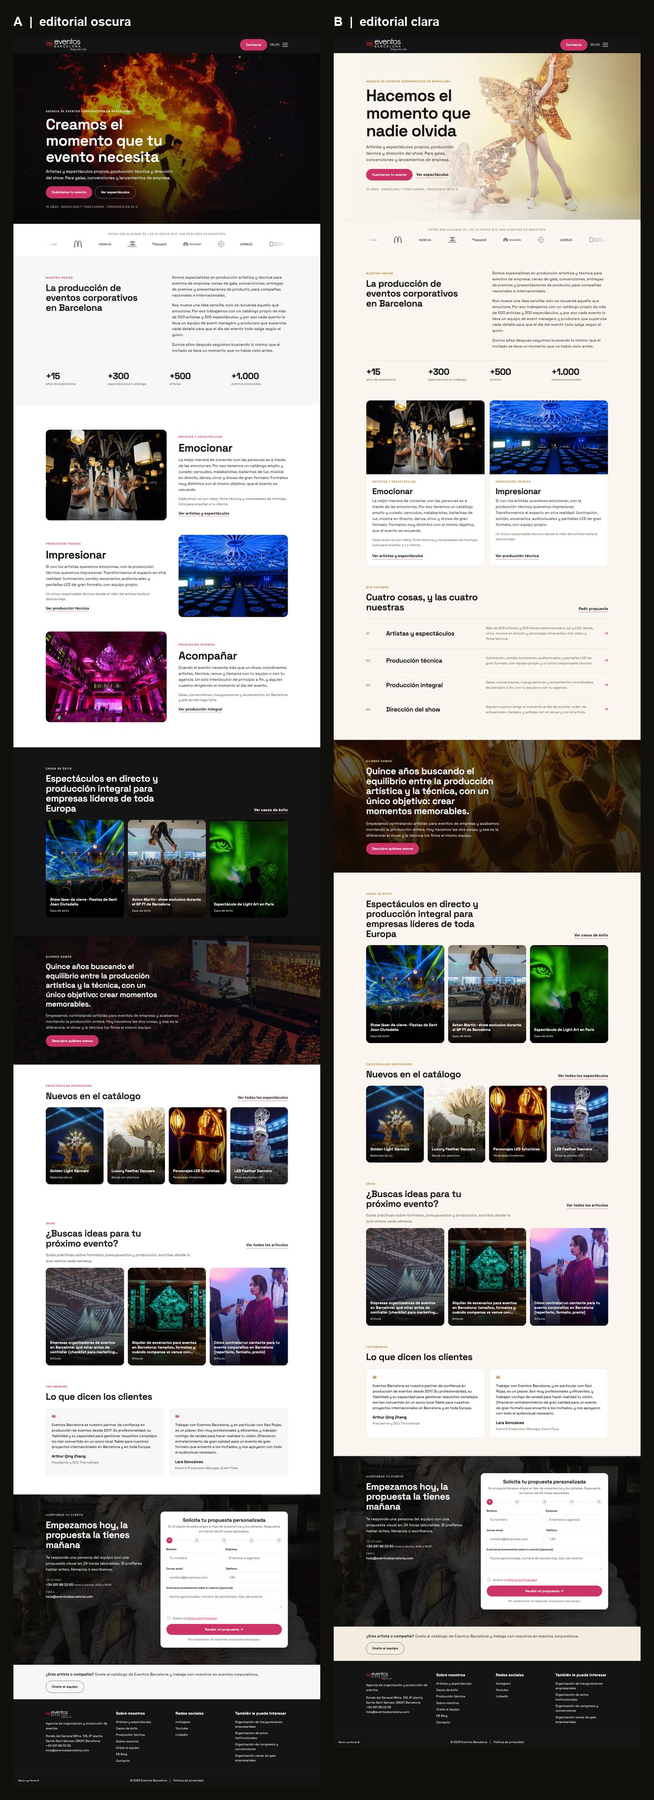
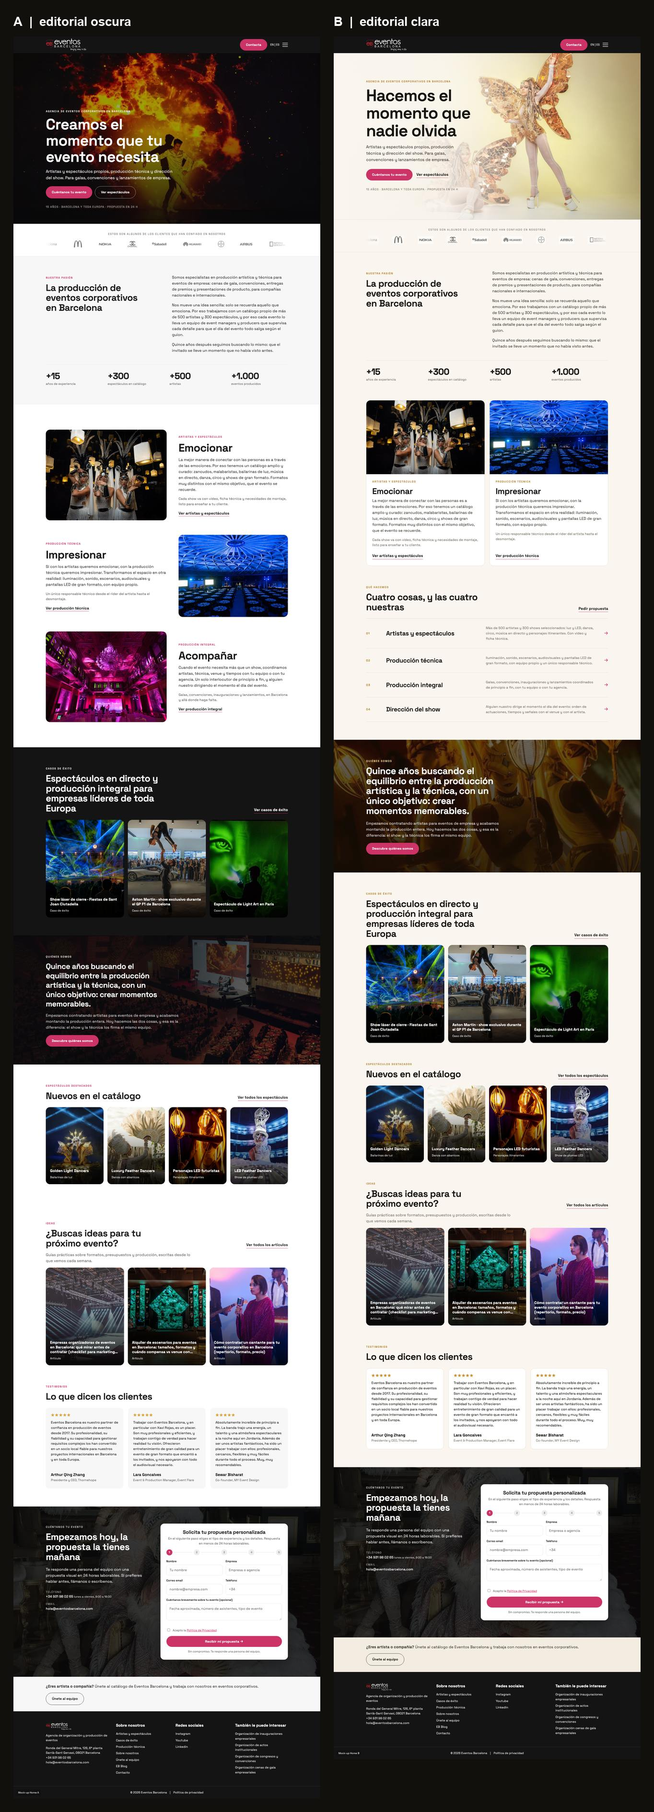
Home: tercer testimonio (MY Event Design) y bloque en formato reseña
- Nuevo testimonio de Sewar Bisharat, Co-founder de MY Event Design (Jordania),
  traducido al español y con el original en inglés para la versión EN.
- El bloque de testimonios pasa a formato reseña: cinco estrellas arriba de cada
  tarjeta, tres columnas en escritorio, dos en tablet y una en móvil, con el
  nombre y el cargo alineados abajo en las tres.
- Sin marcado Review/AggregateRating: Google ignora las reseñas que una marca
  publica sobre sí misma en su propia web, así que las estrellas son visuales.

diff --git a/OUTPUTS/eventos-barcelona/home-opcion-b.html b/OUTPUTS/eventos-barcelona/home-opcion-b.html
@@ -4,7 +4,7 @@
 <meta property="og:image" content="https://propuestas.eventosbarcelona.com/og-eventos-barcelona.jpg"><meta property="og:image:width" content="1200"><meta property="og:image:height" content="630"><meta property="og:url" content="https://propuestas.eventosbarcelona.com/home-opciones/b">
 <meta name="twitter:card" content="summary_large_image"><meta name="twitter:title" content="Home, opción B, Eventos Barcelona"><meta name="twitter:description" content="Mock-up de la nueva home, versión editorial clara en crema y dorado."><meta name="twitter:image" content="https://propuestas.eventosbarcelona.com/og-eventos-barcelona.jpg">
 <meta name="robots" content="noindex,nofollow"><link rel="preconnect" href="https://fonts.googleapis.com"><link rel="preconnect" href="https://fonts.gstatic.com" crossorigin>
-<link rel="stylesheet" href="https://fonts.googleapis.com/css2?family=Space+Grotesk:wght@300;400;500;600;700&display=swap"><style>:root{--pink:#cc3366;--pink-dark:#a82854;--gold:#b8873b;--ink:#17150f;--body:#403b33;--muted:#7d766b;--line:#e2d9c9;--bg:#faf6ef;--bg-2:#f3ece1;--dark:#141414;--font:"Space Grotesk",system-ui,-apple-system,"Segoe UI",Roboto,sans-serif;color-scheme:light}
+<link rel="stylesheet" href="https://fonts.googleapis.com/css2?family=Space+Grotesk:wght@300;400;500;600;700&display=swap"><style>:root{--pink:#cc3366;--pink-dark:#a82854;--gold:#b8873b;--ink:#17150f;--body:#403b33;--muted:#7d766b;--line:#e2d9c9;--bg:#faf6ef;--bg-2:#f3ece1;--dark:#141414;--star:#c9922f;--font:"Space Grotesk",system-ui,-apple-system,"Segoe UI",Roboto,sans-serif;color-scheme:light}
 body{background:var(--bg);color:var(--body)}h1,h2,h3{color:var(--ink)}.eyebrow{color:var(--gold)}.link{color:var(--ink)}
 .hero{position:relative;min-height:min(88vh,780px);display:flex;align-items:center;background:var(--bg) center right/cover no-repeat}
 .hero::before{content:"";position:absolute;inset:0;background:linear-gradient(90deg,var(--bg) 0%,rgba(250,246,239,.93) 36%,rgba(250,246,239,.18) 68%,rgba(250,246,239,0) 100%)}
@@ -30,7 +30,7 @@ body{background:var(--bg);color:var(--body)}h1,h2,h3{color:var(--ink)}.eyebrow{c
 .duo .b{padding:26px 28px 30px;display:flex;flex-direction:column;flex:1}.duo h2{font-size:clamp(1.8rem,3vw,2.4rem);margin-bottom:10px}
 .duo .small{font-size:.98rem;color:var(--muted)}.duo .link{margin-top:auto;align-self:flex-start;padding-top:8px}
 @media(max-width:820px){.duo{grid-template-columns:minmax(0,1fr)}}
-.quote{background:#fff;border:1px solid var(--line);border-radius:18px;padding:30px}.quote .q{color:var(--gold)}
+.quote{background:#fff;border:1px solid var(--line);border-radius:18px;padding:26px 24px 28px}
 .artist{background:var(--bg-2);border-top:1px solid var(--line)}
 
 *{box-sizing:border-box}html{-webkit-text-size-adjust:100%;scroll-behavior:smooth}
@@ -85,10 +85,13 @@ section.s{padding-block:84px}@media(max-width:820px){section.s{padding-block:50p
 @media(max-width:820px){.cards,.cards.four{grid-template-columns:repeat(2,minmax(0,1fr))}}
 @media(max-width:480px){.cards{grid-template-columns:minmax(0,1fr)}.cards.four .card{aspect-ratio:4/5}}
 .after{display:flex;justify-content:center;margin-top:28px}
-/* quotes */
-.quotes{display:grid;grid-template-columns:repeat(2,minmax(0,1fr));gap:22px}
-.quote .q{font-size:2.4rem;line-height:1;font-weight:700}.quote p{font-size:1.04rem;color:var(--ink)}.quote b{display:block;color:var(--ink)}.quote span{color:var(--muted);font-size:.95rem}
-@media(max-width:820px){.quotes{grid-template-columns:minmax(0,1fr)}}
+/* quotes, en formato reseña */
+.quotes{display:grid;grid-template-columns:repeat(3,minmax(0,1fr));gap:22px}
+.quote{display:flex;flex-direction:column}
+.stars{color:var(--star);font-size:1.02rem;letter-spacing:.16em;line-height:1;margin-bottom:14px}
+.quote p{font-size:1rem;color:var(--ink);flex:1}.quote b{display:block;color:var(--ink);margin-top:4px}.quote span{color:var(--muted);font-size:.92rem}
+@media(max-width:980px){.quotes{grid-template-columns:repeat(2,minmax(0,1fr))}}
+@media(max-width:700px){.quotes{grid-template-columns:minmax(0,1fr)}}
 /* form */
 .formsec{position:relative;color:#fff;background:#141414 center/cover no-repeat}.formsec::before{content:"";position:absolute;inset:0;background:rgba(8,8,10,.82)}
 .formsec .wrap{position:relative;display:grid;grid-template-columns:minmax(0,.9fr) minmax(0,1.1fr);gap:48px;align-items:start;padding-block:80px}
@@ -126,7 +129,7 @@ section.s{padding-block:84px}@media(max-width:820px){section.s{padding-block:50p
   <div class="d"><img src="https://www.eventosbarcelona.com/wp-content/uploads/2025/12/foto-banner-home.webp" alt="Bailarinas con tocados de plumas en un evento corporativo" loading="lazy"><div class="b"><span class="eyebrow">Artistas y espectáculos</span><h2>Emocionar</h2><p>La mejor manera de conectar con las personas es a través de las emociones. Por eso tenemos un catálogo amplio y curado: zancudos, malabaristas, bailarinas de luz, música en directo, danza, circo y shows de gran formato. Formatos muy distintos con el mismo objetivo, que el evento se recuerde.</p><p class="small">Cada show va con vídeo, ficha técnica y necesidades de montaje, listo para enseñar a tu cliente.</p><a class="link" href="https://www.eventosbarcelona.com/artistas-y-espectaculos/">Ver artistas y espectáculos</a></div></div>
   <div class="d"><img src="https://www.eventosbarcelona.com/wp-content/uploads/2025/12/header.webp" alt="Sala de gala con iluminación azul y pantallas" loading="lazy"><div class="b"><span class="eyebrow">Producción técnica</span><h2>Impresionar</h2><p>Si con los artistas queremos emocionar, con la producción técnica queremos impresionar. Transformamos el espacio en otra realidad: iluminación, sonido, escenarios, audiovisuales y pantallas LED de gran formato, con equipo propio.</p><p class="small">Un único responsable técnico desde el rider del artista hasta el desmontaje.</p><a class="link" href="https://www.eventosbarcelona.com/produccion-tecnica-para-eventos/">Ver producción técnica</a></div></div>
 </div></div></section><section class="s" style="padding-top:0"><div class="wrap"><div class="s-head"><div><span class="eyebrow">Qué hacemos</span><h2>Cuatro cosas, y las cuatro nuestras</h2></div><a class="link" href="#contacto">Pedir propuesta</a></div><div class="idx"><a href="https://www.eventosbarcelona.com/artistas-y-espectaculos/"><span class="n">01</span><h3>Artistas y espectáculos</h3><p>Más de 500 artistas y 300 shows seleccionados: luz y LED, danza, circo, música en directo y personajes itinerantes. Con vídeo y ficha técnica.</p><span class="go">&rarr;</span></a><a href="https://www.eventosbarcelona.com/produccion-tecnica-para-eventos/"><span class="n">02</span><h3>Producción técnica</h3><p>Iluminación, sonido, escenarios, audiovisuales y pantallas LED de gran formato, con equipo propio y un único responsable técnico.</p><span class="go">&rarr;</span></a><a href="https://www.eventosbarcelona.com/organizacion-eventos-corporativos-barcelona/"><span class="n">03</span><h3>Producción integral</h3><p>Galas, convenciones, inauguraciones y lanzamientos coordinados de principio a fin, con tu equipo o con tu agencia.</p><span class="go">&rarr;</span></a><a href="https://www.eventosbarcelona.com/casos-exito/"><span class="n">04</span><h3>Dirección del show</h3><p>Alguien nuestro dirige el momento el día del evento: orden de actuaciones, tiempos y señales con el venue y con el artista.</p><span class="go">&rarr;</span></a></div></div></section><section class="s about" style="background-image:url('https://www.eventosbarcelona.com/wp-content/uploads/2026/09/contacto-paso-produccion-personajes-led-faroles.jpg')"><div class="wrap"><span class="eyebrow">Quiénes somos</span><h2>Quince años buscando el equilibrio entre la producción artística y la técnica, con un único objetivo: crear momentos memorables.</h2><p>Empezamos contratando artistas para eventos de empresa y acabamos montando la producción entera. Hoy hacemos las dos cosas, y esa es la diferencia: el show y la técnica los firma el mismo equipo.</p><div style="margin-top:22px"><a class="btn" href="https://www.eventosbarcelona.com/quienes-somos/">Descubre quiénes somos</a></div></div></section><section class="s"><div class="wrap"><div class="s-head"><div><span class="eyebrow">Casos de éxito</span><h2>Espectáculos en directo y producción integral para empresas líderes de toda Europa</h2></div><a class="link" href="https://www.eventosbarcelona.com/casos-exito/">Ver casos de éxito</a></div><div class="cards"><a class="card" href="https://www.eventosbarcelona.com/casos-de-exito/espectaculo-laser-cierre-fiestas-sant-joan-ciutadella/"><img src="https://www.eventosbarcelona.com/wp-content/uploads/2026/09/laser-show-sant-joan-ciutadella-header-optimized.jpg" alt="Show láser de cierre · Fiestas de Sant Joan Ciutadella" loading="lazy"><div class="t"><b>Show láser de cierre · Fiestas de Sant Joan Ciutadella</b><span>Caso de éxito</span></div></a><a class="card" href="https://www.eventosbarcelona.com/casos-de-exito/aston-martin-concesionario-barcelona-espectaculo-f1/"><img src="https://www.eventosbarcelona.com/wp-content/uploads/2026/09/espectaculo-acrobatas-mano-a-mano-optimized.jpg" alt="Aston Martin · show exclusivo durante el GP F1 de Barcelona" loading="lazy"><div class="t"><b>Aston Martin · show exclusivo durante el GP F1 de Barcelona</b><span>Caso de éxito</span></div></a><a class="card" href="https://www.eventosbarcelona.com/casos-de-exito/espectaculo-de-light-art-en-paris/"><img src="https://www.eventosbarcelona.com/wp-content/uploads/2026/05/lightart.jpg" alt="Espectáculo de Light Art en Paris" loading="lazy"><div class="t"><b>Espectáculo de Light Art en Paris</b><span>Caso de éxito</span></div></a></div></div></section><section class="s" style="padding-top:0"><div class="wrap"><div class="s-head"><div><span class="eyebrow">Espectáculos destacados</span><h2>Nuevos en el catálogo</h2></div><a class="link" href="https://www.eventosbarcelona.com/espectaculos/">Ver todos los espectáculos</a></div><div class="cards four"><a class="card" href="https://www.eventosbarcelona.com/espectaculos/bailarinas-luz-golden-light-dancers/"><img src="https://www.eventosbarcelona.com/wp-content/uploads/2026/09/golden-light-dancers-laser.jpg" alt="Golden Light Dancers" loading="lazy"><div class="t"><b>Golden Light Dancers</b><span>Bailarinas de luz</span></div></a><a class="card" href="https://www.eventosbarcelona.com/danza/bailarinas-plumas-luxury-feather-dancers/"><img src="https://www.eventosbarcelona.com/wp-content/uploads/2026/09/luxury-feather-dancers-abanico.jpg" alt="Luxury Feather Dancers" loading="lazy"><div class="t"><b>Luxury Feather Dancers</b><span>Danza con abanicos</span></div></a><a class="card" href="https://www.eventosbarcelona.com/espectaculos/personajes-led-futuristas/"><img src="https://www.eventosbarcelona.com/wp-content/uploads/2026/09/personaje-led-futurista-baston-luz.jpg" alt="Personajes LED futuristas" loading="lazy"><div class="t"><b>Personajes LED futuristas</b><span>Personajes itinerantes</span></div></a><a class="card" href="https://www.eventosbarcelona.com/espectaculos/bailarinas-plumas-led-feather-dancers/"><img src="https://www.eventosbarcelona.com/wp-content/uploads/2026/09/led-feather-dancer-teatro.jpg" alt="LED Feather Dancers" loading="lazy"><div class="t"><b>LED Feather Dancers</b><span>Show de plumas LED</span></div></a></div></div></section><section class="s" style="padding-top:0"><div class="wrap"><div class="s-head"><div><span class="eyebrow">Ideas</span><h2>¿Buscas ideas para tu próximo evento?</h2></div><a class="link" href="https://www.eventosbarcelona.com/blog/">Ver todos los artículos</a></div>
-  <p style="max-width:44rem;color:var(--muted);margin-top:-14px">Guías prácticas sobre formatos, presupuestos y producción, escritas desde lo que vemos cada semana.</p><div class="cards"><a class="card" href="https://www.eventosbarcelona.com/empresas-organizadoras-eventos-barcelona/"><img src="https://www.eventosbarcelona.com/wp-content/uploads/2026/08/convenciones-internacionales-corporate-barcelona-scaled.jpg" alt="Empresas organizadoras de eventos en Barcelona: qué mirar antes de contratar (checklist para marketing corporativo)" loading="lazy"><div class="t"><b>Empresas organizadoras de eventos en Barcelona: qué mirar antes de contratar (checklist para marketing corporativo)</b><span>Artículo</span></div></a><a class="card" href="https://www.eventosbarcelona.com/alquiler-escenarios-eventos-barcelona-guia/"><img src="https://www.eventosbarcelona.com/wp-content/uploads/2026/08/escenario-led-verde-palmeras-eventos-corporativos-barcelona-scaled.jpg" alt="Alquiler de escenarios para eventos en Barcelona: tamaños, formatos y cuándo compensa vs venue con escenario incluido" loading="lazy"><div class="t"><b>Alquiler de escenarios para eventos en Barcelona: tamaños, formatos y cuándo compensa vs venue con escenario incluido</b><span>Artículo</span></div></a><a class="card" href="https://www.eventosbarcelona.com/contratar-cantante-evento-corporativo-barcelona/"><img src="https://www.eventosbarcelona.com/wp-content/uploads/2026/08/cantante-solista-banda-eventos-corporativos-barcelona-scaled.jpg" alt="Cómo contratar un cantante para tu evento corporativo en Barcelona (repertorio, formato, precio)" loading="lazy"><div class="t"><b>Cómo contratar un cantante para tu evento corporativo en Barcelona (repertorio, formato, precio)</b><span>Artículo</span></div></a></div></div></section><section class="s" style="padding-top:0"><div class="wrap"><div class="s-head"><div><span class="eyebrow">Testimonios</span><h2>Lo que dicen los clientes</h2></div></div><div class="quotes"><div class="quote"><div class="q">&ldquo;</div><p>Eventos Barcelona es nuestro partner de confianza en producción de eventos desde 2017. Su profesionalidad, su fiabilidad y su capacidad para gestionar requisitos complejos los han convertido en un socio local fiable para nuestros proyectos internacionales en Barcelona y en toda Europa.</p><b>Arthur Qing Zhang</b><span>Presidente y CEO, Thornehope</span></div><div class="quote"><div class="q">&ldquo;</div><p>Trabajar con Eventos Barcelona, y en particular con Xavi Rojas, es un placer. Son muy profesionales y eficientes, y trabajan contigo de verdad para hacer realidad tu visión. Ofrecieron entretenimiento de gran calidad para un evento de gran formato que encantó a los invitados, y nos apoyaron con todo el audiovisual necesario.</p><b>Lara Goncalves</b><span>Event & Production Manager, Event Flare</span></div></div></div></section><section class="formsec" id="contacto" style="background-image:url('https://www.eventosbarcelona.com/wp-content/uploads/2026/09/contacto-casos-luxury-feather-dancers-palacio.jpg')"><div class="wrap">
+  <p style="max-width:44rem;color:var(--muted);margin-top:-14px">Guías prácticas sobre formatos, presupuestos y producción, escritas desde lo que vemos cada semana.</p><div class="cards"><a class="card" href="https://www.eventosbarcelona.com/empresas-organizadoras-eventos-barcelona/"><img src="https://www.eventosbarcelona.com/wp-content/uploads/2026/08/convenciones-internacionales-corporate-barcelona-scaled.jpg" alt="Empresas organizadoras de eventos en Barcelona: qué mirar antes de contratar (checklist para marketing corporativo)" loading="lazy"><div class="t"><b>Empresas organizadoras de eventos en Barcelona: qué mirar antes de contratar (checklist para marketing corporativo)</b><span>Artículo</span></div></a><a class="card" href="https://www.eventosbarcelona.com/alquiler-escenarios-eventos-barcelona-guia/"><img src="https://www.eventosbarcelona.com/wp-content/uploads/2026/08/escenario-led-verde-palmeras-eventos-corporativos-barcelona-scaled.jpg" alt="Alquiler de escenarios para eventos en Barcelona: tamaños, formatos y cuándo compensa vs venue con escenario incluido" loading="lazy"><div class="t"><b>Alquiler de escenarios para eventos en Barcelona: tamaños, formatos y cuándo compensa vs venue con escenario incluido</b><span>Artículo</span></div></a><a class="card" href="https://www.eventosbarcelona.com/contratar-cantante-evento-corporativo-barcelona/"><img src="https://www.eventosbarcelona.com/wp-content/uploads/2026/08/cantante-solista-banda-eventos-corporativos-barcelona-scaled.jpg" alt="Cómo contratar un cantante para tu evento corporativo en Barcelona (repertorio, formato, precio)" loading="lazy"><div class="t"><b>Cómo contratar un cantante para tu evento corporativo en Barcelona (repertorio, formato, precio)</b><span>Artículo</span></div></a></div></div></section><section class="s" style="padding-top:0"><div class="wrap"><div class="s-head"><div><span class="eyebrow">Testimonios</span><h2>Lo que dicen los clientes</h2></div></div><div class="quotes"><div class="quote"><div class="stars" role="img" aria-label="5 de 5 estrellas">&#9733;&#9733;&#9733;&#9733;&#9733;</div><p>Eventos Barcelona es nuestro partner de confianza en producción de eventos desde 2017. Su profesionalidad, su fiabilidad y su capacidad para gestionar requisitos complejos los han convertido en un socio local fiable para nuestros proyectos internacionales en Barcelona y en toda Europa.</p><b>Arthur Qing Zhang</b><span>Presidente y CEO, Thornehope</span></div><div class="quote"><div class="stars" role="img" aria-label="5 de 5 estrellas">&#9733;&#9733;&#9733;&#9733;&#9733;</div><p>Trabajar con Eventos Barcelona, y en particular con Xavi Rojas, es un placer. Son muy profesionales y eficientes, y trabajan contigo de verdad para hacer realidad tu visión. Ofrecieron entretenimiento de gran calidad para un evento de gran formato que encantó a los invitados, y nos apoyaron con todo el audiovisual necesario.</p><b>Lara Goncalves</b><span>Event & Production Manager, Event Flare</span></div><div class="quote"><div class="stars" role="img" aria-label="5 de 5 estrellas">&#9733;&#9733;&#9733;&#9733;&#9733;</div><p>Absolutamente increíble de principio a fin. La banda trajo una energía, un talento y una atmósfera espectaculares a la noche aquí en Jordania. Además de ser unos artistas fantásticos, ha sido un placer trabajar con ellos: profesionales, cercanos, flexibles y muy fáciles durante todo el proceso. Muy, muy recomendables.</p><b>Sewar Bisharat</b><span>Co-founder, MY Event Design</span></div></div></div></section><section class="formsec" id="contacto" style="background-image:url('https://www.eventosbarcelona.com/wp-content/uploads/2026/09/contacto-casos-luxury-feather-dancers-palacio.jpg')"><div class="wrap">
   <div><span class="eyebrow">Cuéntanos tu evento</span><h2>Empezamos hoy, la propuesta la tienes mañana</h2><p class="lead">Te responde una persona del equipo con una propuesta visual en 24 horas laborables. Si prefieres hablar antes, llámanos o escríbenos.</p>
   <div class="channels"><div><span class="k">Teléfono</span><a href="tel:+34931980265">+34 931 98 02 65</a> <small style="opacity:.7">lunes a viernes, 9:00 a 18:00</small></div><div><span class="k">Email</span><a href="mailto:hola@eventosbarcelona.com">hola@eventosbarcelona.com</a></div></div></div>
   <div class="form-card"><h3>Solicita tu propuesta personalizada</h3><p class="sub">En el siguiente paso eliges el tipo de experiencia y los detalles. Respuesta en menos de 24 horas laborables.</p>

diff --git a/OUTPUTS/eventos-barcelona/home-opcion-a.html b/OUTPUTS/eventos-barcelona/home-opcion-a.html
@@ -4,7 +4,7 @@
 <meta property="og:image" content="https://propuestas.eventosbarcelona.com/og-eventos-barcelona.jpg"><meta property="og:image:width" content="1200"><meta property="og:image:height" content="630"><meta property="og:url" content="https://propuestas.eventosbarcelona.com/home-opciones/a">
 <meta name="twitter:card" content="summary_large_image"><meta name="twitter:title" content="Home, opción A, Eventos Barcelona"><meta name="twitter:description" content="Mock-up de la nueva home, versión editorial oscura."><meta name="twitter:image" content="https://propuestas.eventosbarcelona.com/og-eventos-barcelona.jpg">
 <meta name="robots" content="noindex,nofollow"><link rel="preconnect" href="https://fonts.googleapis.com"><link rel="preconnect" href="https://fonts.gstatic.com" crossorigin>
-<link rel="stylesheet" href="https://fonts.googleapis.com/css2?family=Space+Grotesk:wght@300;400;500;600;700&display=swap"><style>:root{--pink:#cc3366;--pink-dark:#a82854;--ink:#1a1a1a;--body:#333;--muted:#6b6b6b;--line:#e6e6e6;--bg:#fff;--bg-2:#f7f7f7;--dark:#141414;--font:"Space Grotesk",system-ui,-apple-system,"Segoe UI",Roboto,sans-serif;color-scheme:light}
+<link rel="stylesheet" href="https://fonts.googleapis.com/css2?family=Space+Grotesk:wght@300;400;500;600;700&display=swap"><style>:root{--pink:#cc3366;--pink-dark:#a82854;--ink:#1a1a1a;--body:#333;--muted:#6b6b6b;--line:#e6e6e6;--bg:#fff;--bg-2:#f7f7f7;--dark:#141414;--star:#d9a441;--font:"Space Grotesk",system-ui,-apple-system,"Segoe UI",Roboto,sans-serif;color-scheme:light}
 body{background:var(--bg);color:var(--body)}h1,h2,h3{color:var(--ink)}.eyebrow{color:var(--pink)}.link{color:var(--ink)}
 .hero{position:relative;min-height:min(92vh,800px);display:flex;align-items:flex-end;color:#fff;background:#141414 center/cover no-repeat}
 .hero::before{content:"";position:absolute;inset:0;background:linear-gradient(180deg,rgba(8,8,10,.3) 0%,rgba(8,8,10,.38) 45%,rgba(8,8,10,.92) 100%)}
@@ -18,7 +18,7 @@ body{background:var(--bg);color:var(--body)}h1,h2,h3{color:var(--ink)}.eyebrow{c
 .about .wrap{position:relative}.about h2{color:#fff;max-width:24ch;font-size:clamp(1.5rem,2.6vw,2.2rem);line-height:1.25}.about p{color:rgba(255,255,255,.75);max-width:44rem}.about .eyebrow{color:rgba(255,255,255,.8)}
 @media(max-width:820px){.about::before{background:rgba(10,10,12,.9)}}
 .cases{background:var(--dark)}.cases h2{color:#fff}.cases .eyebrow{color:rgba(255,255,255,.85)}.cases .link{color:#fff}
-.quote{background:var(--bg-2);border-radius:16px;padding:28px}.quote .q{color:var(--pink)}
+.quote{background:var(--bg-2);border-radius:16px;padding:26px 24px 28px}
 .artist{background:var(--bg-2);border-top:1px solid var(--line)}
 
 *{box-sizing:border-box}html{-webkit-text-size-adjust:100%;scroll-behavior:smooth}
@@ -73,10 +73,13 @@ section.s{padding-block:84px}@media(max-width:820px){section.s{padding-block:50p
 @media(max-width:820px){.cards,.cards.four{grid-template-columns:repeat(2,minmax(0,1fr))}}
 @media(max-width:480px){.cards{grid-template-columns:minmax(0,1fr)}.cards.four .card{aspect-ratio:4/5}}
 .after{display:flex;justify-content:center;margin-top:28px}
-/* quotes */
-.quotes{display:grid;grid-template-columns:repeat(2,minmax(0,1fr));gap:22px}
-.quote .q{font-size:2.4rem;line-height:1;font-weight:700}.quote p{font-size:1.04rem;color:var(--ink)}.quote b{display:block;color:var(--ink)}.quote span{color:var(--muted);font-size:.95rem}
-@media(max-width:820px){.quotes{grid-template-columns:minmax(0,1fr)}}
+/* quotes, en formato reseña */
+.quotes{display:grid;grid-template-columns:repeat(3,minmax(0,1fr));gap:22px}
+.quote{display:flex;flex-direction:column}
+.stars{color:var(--star);font-size:1.02rem;letter-spacing:.16em;line-height:1;margin-bottom:14px}
+.quote p{font-size:1rem;color:var(--ink);flex:1}.quote b{display:block;color:var(--ink);margin-top:4px}.quote span{color:var(--muted);font-size:.92rem}
+@media(max-width:980px){.quotes{grid-template-columns:repeat(2,minmax(0,1fr))}}
+@media(max-width:700px){.quotes{grid-template-columns:minmax(0,1fr)}}
 /* form */
 .formsec{position:relative;color:#fff;background:#141414 center/cover no-repeat}.formsec::before{content:"";position:absolute;inset:0;background:rgba(8,8,10,.82)}
 .formsec .wrap{position:relative;display:grid;grid-template-columns:minmax(0,.9fr) minmax(0,1.1fr);gap:48px;align-items:start;padding-block:80px}
@@ -115,7 +118,7 @@ section.s{padding-block:84px}@media(max-width:820px){section.s{padding-block:50p
   <div class="pillar"><img src="https://www.eventosbarcelona.com/wp-content/uploads/2025/12/header.webp" alt="Sala de gala con iluminación azul y pantallas" loading="lazy"><div class="txt"><span class="eyebrow">Producción técnica</span><h2>Impresionar</h2><p>Si con los artistas queremos emocionar, con la producción técnica queremos impresionar. Transformamos el espacio en otra realidad: iluminación, sonido, escenarios, audiovisuales y pantallas LED de gran formato, con equipo propio.</p><p class="small">Un único responsable técnico desde el rider del artista hasta el desmontaje.</p><a class="link" href="https://www.eventosbarcelona.com/produccion-tecnica-para-eventos/">Ver producción técnica</a></div></div>
   <div class="pillar"><img src="https://www.eventosbarcelona.com/wp-content/uploads/2025/12/header3.jpeg" alt="Gala corporativa con iluminación rosa en un salón histórico" loading="lazy"><div class="txt"><span class="eyebrow">Producción integral</span><h2>Acompañar</h2><p>Cuando el evento necesita más que un show, coordinamos artistas, técnica, venue y tiempos con tu equipo o con tu agencia. Un solo interlocutor de principio a fin, y alguien nuestro dirigiendo el momento el día del evento.</p><p class="small">Galas, convenciones, inauguraciones y lanzamientos, en Barcelona y allá donde haga falta.</p><a class="link" href="https://www.eventosbarcelona.com/organizacion-eventos-corporativos-barcelona/">Ver producción integral</a></div></div>
 </div></section><section class="s cases"><div class="wrap"><div class="s-head"><div><span class="eyebrow">Casos de éxito</span><h2>Espectáculos en directo y producción integral para empresas líderes de toda Europa</h2></div><a class="link" href="https://www.eventosbarcelona.com/casos-exito/">Ver casos de éxito</a></div><div class="cards"><a class="card" href="https://www.eventosbarcelona.com/casos-de-exito/espectaculo-laser-cierre-fiestas-sant-joan-ciutadella/"><img src="https://www.eventosbarcelona.com/wp-content/uploads/2026/09/laser-show-sant-joan-ciutadella-header-optimized.jpg" alt="Show láser de cierre · Fiestas de Sant Joan Ciutadella" loading="lazy"><div class="t"><b>Show láser de cierre · Fiestas de Sant Joan Ciutadella</b><span>Caso de éxito</span></div></a><a class="card" href="https://www.eventosbarcelona.com/casos-de-exito/aston-martin-concesionario-barcelona-espectaculo-f1/"><img src="https://www.eventosbarcelona.com/wp-content/uploads/2026/09/espectaculo-acrobatas-mano-a-mano-optimized.jpg" alt="Aston Martin · show exclusivo durante el GP F1 de Barcelona" loading="lazy"><div class="t"><b>Aston Martin · show exclusivo durante el GP F1 de Barcelona</b><span>Caso de éxito</span></div></a><a class="card" href="https://www.eventosbarcelona.com/casos-de-exito/espectaculo-de-light-art-en-paris/"><img src="https://www.eventosbarcelona.com/wp-content/uploads/2026/05/lightart.jpg" alt="Espectáculo de Light Art en Paris" loading="lazy"><div class="t"><b>Espectáculo de Light Art en Paris</b><span>Caso de éxito</span></div></a></div></div></section><section class="s about" style="background-image:url('https://www.eventosbarcelona.com/wp-content/uploads/2025/12/reportajefotografico1-scaled-1.webp')"><div class="wrap"><span class="eyebrow">Quiénes somos</span><h2>Quince años buscando el equilibrio entre la producción artística y la técnica, con un único objetivo: crear momentos memorables.</h2><p>Empezamos contratando artistas para eventos de empresa y acabamos montando la producción entera. Hoy hacemos las dos cosas, y esa es la diferencia: el show y la técnica los firma el mismo equipo.</p><div style="margin-top:22px"><a class="btn" href="https://www.eventosbarcelona.com/quienes-somos/">Descubre quiénes somos</a></div></div></section><section class="s"><div class="wrap"><div class="s-head"><div><span class="eyebrow">Espectáculos destacados</span><h2>Nuevos en el catálogo</h2></div><a class="link" href="https://www.eventosbarcelona.com/espectaculos/">Ver todos los espectáculos</a></div><div class="cards four"><a class="card" href="https://www.eventosbarcelona.com/espectaculos/bailarinas-luz-golden-light-dancers/"><img src="https://www.eventosbarcelona.com/wp-content/uploads/2026/09/golden-light-dancers-laser.jpg" alt="Golden Light Dancers" loading="lazy"><div class="t"><b>Golden Light Dancers</b><span>Bailarinas de luz</span></div></a><a class="card" href="https://www.eventosbarcelona.com/danza/bailarinas-plumas-luxury-feather-dancers/"><img src="https://www.eventosbarcelona.com/wp-content/uploads/2026/09/luxury-feather-dancers-abanico.jpg" alt="Luxury Feather Dancers" loading="lazy"><div class="t"><b>Luxury Feather Dancers</b><span>Danza con abanicos</span></div></a><a class="card" href="https://www.eventosbarcelona.com/espectaculos/personajes-led-futuristas/"><img src="https://www.eventosbarcelona.com/wp-content/uploads/2026/09/personaje-led-futurista-baston-luz.jpg" alt="Personajes LED futuristas" loading="lazy"><div class="t"><b>Personajes LED futuristas</b><span>Personajes itinerantes</span></div></a><a class="card" href="https://www.eventosbarcelona.com/espectaculos/bailarinas-plumas-led-feather-dancers/"><img src="https://www.eventosbarcelona.com/wp-content/uploads/2026/09/led-feather-dancer-teatro.jpg" alt="LED Feather Dancers" loading="lazy"><div class="t"><b>LED Feather Dancers</b><span>Show de plumas LED</span></div></a></div></div></section><section class="s"><div class="wrap"><div class="s-head"><div><span class="eyebrow">Ideas</span><h2>¿Buscas ideas para tu próximo evento?</h2></div><a class="link" href="https://www.eventosbarcelona.com/blog/">Ver todos los artículos</a></div>
-  <p style="max-width:44rem;color:var(--muted);margin-top:-14px">Guías prácticas sobre formatos, presupuestos y producción, escritas desde lo que vemos cada semana.</p><div class="cards"><a class="card" href="https://www.eventosbarcelona.com/empresas-organizadoras-eventos-barcelona/"><img src="https://www.eventosbarcelona.com/wp-content/uploads/2026/08/convenciones-internacionales-corporate-barcelona-scaled.jpg" alt="Empresas organizadoras de eventos en Barcelona: qué mirar antes de contratar (checklist para marketing corporativo)" loading="lazy"><div class="t"><b>Empresas organizadoras de eventos en Barcelona: qué mirar antes de contratar (checklist para marketing corporativo)</b><span>Artículo</span></div></a><a class="card" href="https://www.eventosbarcelona.com/alquiler-escenarios-eventos-barcelona-guia/"><img src="https://www.eventosbarcelona.com/wp-content/uploads/2026/08/escenario-led-verde-palmeras-eventos-corporativos-barcelona-scaled.jpg" alt="Alquiler de escenarios para eventos en Barcelona: tamaños, formatos y cuándo compensa vs venue con escenario incluido" loading="lazy"><div class="t"><b>Alquiler de escenarios para eventos en Barcelona: tamaños, formatos y cuándo compensa vs venue con escenario incluido</b><span>Artículo</span></div></a><a class="card" href="https://www.eventosbarcelona.com/contratar-cantante-evento-corporativo-barcelona/"><img src="https://www.eventosbarcelona.com/wp-content/uploads/2026/08/cantante-solista-banda-eventos-corporativos-barcelona-scaled.jpg" alt="Cómo contratar un cantante para tu evento corporativo en Barcelona (repertorio, formato, precio)" loading="lazy"><div class="t"><b>Cómo contratar un cantante para tu evento corporativo en Barcelona (repertorio, formato, precio)</b><span>Artículo</span></div></a></div></div></section><section class="s" style="padding-top:0"><div class="wrap"><div class="s-head"><div><span class="eyebrow">Testimonios</span><h2>Lo que dicen los clientes</h2></div></div><div class="quotes"><div class="quote"><div class="q">&ldquo;</div><p>Eventos Barcelona es nuestro partner de confianza en producción de eventos desde 2017. Su profesionalidad, su fiabilidad y su capacidad para gestionar requisitos complejos los han convertido en un socio local fiable para nuestros proyectos internacionales en Barcelona y en toda Europa.</p><b>Arthur Qing Zhang</b><span>Presidente y CEO, Thornehope</span></div><div class="quote"><div class="q">&ldquo;</div><p>Trabajar con Eventos Barcelona, y en particular con Xavi Rojas, es un placer. Son muy profesionales y eficientes, y trabajan contigo de verdad para hacer realidad tu visión. Ofrecieron entretenimiento de gran calidad para un evento de gran formato que encantó a los invitados, y nos apoyaron con todo el audiovisual necesario.</p><b>Lara Goncalves</b><span>Event & Production Manager, Event Flare</span></div></div></div></section><section class="formsec" id="contacto" style="background-image:url('https://www.eventosbarcelona.com/wp-content/uploads/2026/09/contacto-casos-luxury-feather-dancers-palacio.jpg')"><div class="wrap">
+  <p style="max-width:44rem;color:var(--muted);margin-top:-14px">Guías prácticas sobre formatos, presupuestos y producción, escritas desde lo que vemos cada semana.</p><div class="cards"><a class="card" href="https://www.eventosbarcelona.com/empresas-organizadoras-eventos-barcelona/"><img src="https://www.eventosbarcelona.com/wp-content/uploads/2026/08/convenciones-internacionales-corporate-barcelona-scaled.jpg" alt="Empresas organizadoras de eventos en Barcelona: qué mirar antes de contratar (checklist para marketing corporativo)" loading="lazy"><div class="t"><b>Empresas organizadoras de eventos en Barcelona: qué mirar antes de contratar (checklist para marketing corporativo)</b><span>Artículo</span></div></a><a class="card" href="https://www.eventosbarcelona.com/alquiler-escenarios-eventos-barcelona-guia/"><img src="https://www.eventosbarcelona.com/wp-content/uploads/2026/08/escenario-led-verde-palmeras-eventos-corporativos-barcelona-scaled.jpg" alt="Alquiler de escenarios para eventos en Barcelona: tamaños, formatos y cuándo compensa vs venue con escenario incluido" loading="lazy"><div class="t"><b>Alquiler de escenarios para eventos en Barcelona: tamaños, formatos y cuándo compensa vs venue con escenario incluido</b><span>Artículo</span></div></a><a class="card" href="https://www.eventosbarcelona.com/contratar-cantante-evento-corporativo-barcelona/"><img src="https://www.eventosbarcelona.com/wp-content/uploads/2026/08/cantante-solista-banda-eventos-corporativos-barcelona-scaled.jpg" alt="Cómo contratar un cantante para tu evento corporativo en Barcelona (repertorio, formato, precio)" loading="lazy"><div class="t"><b>Cómo contratar un cantante para tu evento corporativo en Barcelona (repertorio, formato, precio)</b><span>Artículo</span></div></a></div></div></section><section class="s" style="padding-top:0"><div class="wrap"><div class="s-head"><div><span class="eyebrow">Testimonios</span><h2>Lo que dicen los clientes</h2></div></div><div class="quotes"><div class="quote"><div class="stars" role="img" aria-label="5 de 5 estrellas">&#9733;&#9733;&#9733;&#9733;&#9733;</div><p>Eventos Barcelona es nuestro partner de confianza en producción de eventos desde 2017. Su profesionalidad, su fiabilidad y su capacidad para gestionar requisitos complejos los han convertido en un socio local fiable para nuestros proyectos internacionales en Barcelona y en toda Europa.</p><b>Arthur Qing Zhang</b><span>Presidente y CEO, Thornehope</span></div><div class="quote"><div class="stars" role="img" aria-label="5 de 5 estrellas">&#9733;&#9733;&#9733;&#9733;&#9733;</div><p>Trabajar con Eventos Barcelona, y en particular con Xavi Rojas, es un placer. Son muy profesionales y eficientes, y trabajan contigo de verdad para hacer realidad tu visión. Ofrecieron entretenimiento de gran calidad para un evento de gran formato que encantó a los invitados, y nos apoyaron con todo el audiovisual necesario.</p><b>Lara Goncalves</b><span>Event & Production Manager, Event Flare</span></div><div class="quote"><div class="stars" role="img" aria-label="5 de 5 estrellas">&#9733;&#9733;&#9733;&#9733;&#9733;</div><p>Absolutamente increíble de principio a fin. La banda trajo una energía, un talento y una atmósfera espectaculares a la noche aquí en Jordania. Además de ser unos artistas fantásticos, ha sido un placer trabajar con ellos: profesionales, cercanos, flexibles y muy fáciles durante todo el proceso. Muy, muy recomendables.</p><b>Sewar Bisharat</b><span>Co-founder, MY Event Design</span></div></div></div></section><section class="formsec" id="contacto" style="background-image:url('https://www.eventosbarcelona.com/wp-content/uploads/2026/09/contacto-casos-luxury-feather-dancers-palacio.jpg')"><div class="wrap">
   <div><span class="eyebrow">Cuéntanos tu evento</span><h2>Empezamos hoy, la propuesta la tienes mañana</h2><p class="lead">Te responde una persona del equipo con una propuesta visual en 24 horas laborables. Si prefieres hablar antes, llámanos o escríbenos.</p>
   <div class="channels"><div><span class="k">Teléfono</span><a href="tel:+34931980265">+34 931 98 02 65</a> <small style="opacity:.7">lunes a viernes, 9:00 a 18:00</small></div><div><span class="k">Email</span><a href="mailto:hola@eventosbarcelona.com">hola@eventosbarcelona.com</a></div></div></div>
   <div class="form-card"><h3>Solicita tu propuesta personalizada</h3><p class="sub">En el siguiente paso eliges el tipo de experiencia y los detalles. Respuesta en menos de 24 horas laborables.</p>

diff --git a/OUTPUTS/eventos-barcelona/home-opciones.html b/OUTPUTS/eventos-barcelona/home-opciones.html
@@ -189,7 +189,7 @@ table{border-collapse:collapse;width:100%;min-width:640px;font-size:.95rem}th,td
         <h4>Lo que se añade</h4>
         <ul class="plain">
           <li><strong>Acompañar</strong>, el tercer verbo: la producción integral contada como servicio, que en la home actual no se explica.</li>
-          <li><strong>Los dos testimonios reales</strong> (Thornehope y Event Flare), que la home actual no tiene.</li>
+          <li><strong>Tres reseñas reales</strong> con cinco estrellas (Thornehope, Event Flare y MY Event Design, Jordania), que la home actual no tiene.</li>
           <li><strong>La promesa de 24 horas</strong>, repetida en el hero y en el formulario.</li>
           <li><strong>El blog</strong> con los tres últimos artículos, en formato card y sin fechas.</li>
         </ul>
@@ -219,7 +219,7 @@ table{border-collapse:collapse;width:100%;min-width:640px;font-size:.95rem}th,td
           <li><b>Quince años</b><small>Banda negra con la frase del equilibrio y el botón a Quiénes somos.</small></li>
           <li><b>Espectáculos destacados</b><small>Los cuatro shows nuevos en cards 3:4.</small></li>
           <li><b>Blog</b><small>"¿Buscas ideas para tu próximo evento?" con los tres últimos artículos.</small></li>
-          <li><b>Testimonios</b><small>Thornehope y Event Flare.</small></li>
+          <li><b>Reseñas</b><small>Tres testimonios reales en formato reseña, con cinco estrellas: Thornehope, Event Flare y MY Event Design.</small></li>
           <li><b>Formulario sobre foto oscura</b><small>El global, en tarjeta blanca, como en contacto.</small></li>
           <li><b>Banda "¿Eres artista?"</b><small>Compacta, antes del footer.</small></li>
         </ol>
@@ -249,7 +249,7 @@ table{border-collapse:collapse;width:100%;min-width:640px;font-size:.95rem}th,td
           <li><b>Casos de éxito</b><small>Tres cards sobre crema.</small></li>
           <li><b>Espectáculos destacados</b><small>Cuatro shows nuevos.</small></li>
           <li><b>Blog</b><small>Los tres últimos artículos.</small></li>
-          <li><b>Testimonios</b><small>Dos, en tarjetas blancas con borde.</small></li>
+          <li><b>Reseñas</b><small>Tres, en tarjetas blancas con cinco estrellas: Thornehope, Event Flare y MY Event Design.</small></li>
           <li><b>Formulario y banda de artistas</b><small>Como en contacto.</small></li>
         </ol>
       </div>
@@ -273,6 +273,7 @@ table{border-collapse:collapse;width:100%;min-width:640px;font-size:.95rem}th,td
           <tr><td>Servicios</td><td>3, dentro de los pilares</td><td class="win">Índice de 4, incluye dirección del show</td></tr>
           <tr><td>"Nuestra pasión", 15 años y blog</td><td class="win">Sí</td><td class="win">Sí</td></tr>
           <tr><td>Longitud</td><td>13 bloques</td><td class="win">12 bloques</td></tr>
+          <tr><td>Reseñas</td><td class="win">3 con estrellas</td><td class="win">3 con estrellas</td></tr>
           <tr><td>Riesgo de que a Xavi le chirríe</td><td class="win">Bajo</td><td>Medio, es un cambio de piel</td></tr>
         </tbody>
       </table>
